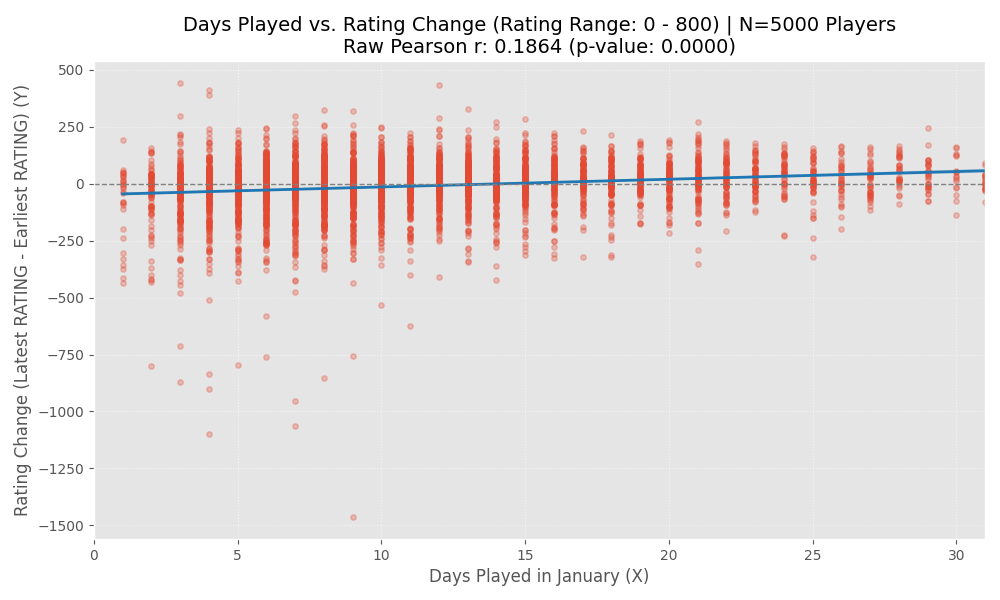
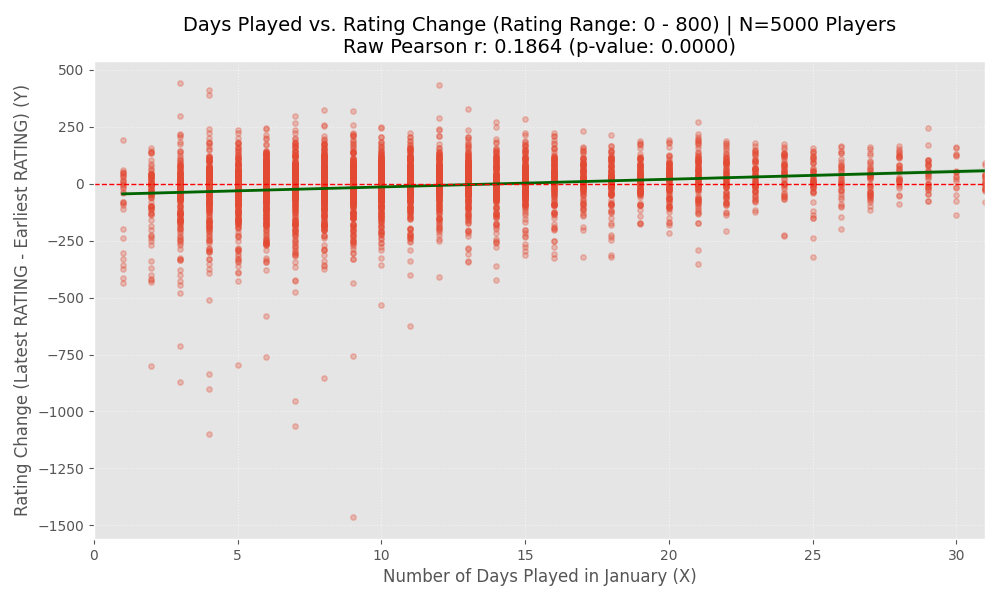
add regression line to bin visualizations, rerun results

Changed region(s): [[0.093, 0.27, 0.992, 0.33], [0.372, 0.93, 0.682, 0.99]]

diff --git a/analyze_and_visualize_correlation_games_vs_rating_change.py b/analyze_and_visualize_correlation_games_vs_rating_change.py
@@ -8,6 +8,8 @@ import io
 import re
 import sys
 
+# TODO: investigate 0 p-values: is that due to rounding, or is something wonky happening?
+
 # --- Configuration ---
 INPUT_CSV_PATH = 'lichess-beginner-data-mining/2024_01_rapid_players_rated_801-1600_results.csv'
 OUTPUT_CSV_PATH = 'lichess-beginner-data-mining/2024_01_rapid_players_rated_801-1600_correlation_results.csv'
@@ -207,7 +209,6 @@ def run_correlation_analysis(df: pd.DataFrame):
 
     plt.xlim(15, 400) 
     
-    # UPDATED: Added P-value to the title
     plt.title(
         f'Games Played vs. Rating Change ({RATING_RANGE_STR}) | N={TOTAL_PLAYERS_N} Players\nRaw Pearson r: {correlation_games:.4f} (p-value: {p_value_games:.4f})', 
         fontsize=14
@@ -237,27 +238,27 @@ def run_correlation_analysis(df: pd.DataFrame):
         y='Rating_Change', 
         data=df, 
         scatter_kws={'alpha': 0.3, 's': 15}, 
-        line_kws={'color': '#1f77b4', 'linewidth': 2} # New color for differentiation
+        line_kws={'color': 'darkgreen', 'linewidth': 2} # Use a different color for differentiation
     )
-
-    plt.xlim(0, 31) # Limit X-axis to the days in the month (1-31)
     
-    # UPDATED: Added P-value to the title
+    # Set x-limits appropriate for Days Played (1 to 31)
+    plt.xlim(0, 31) 
+    
     plt.title(
         f'Days Played vs. Rating Change ({RATING_RANGE_STR}) | N={TOTAL_PLAYERS_N} Players\nRaw Pearson r: {correlation_days:.4f} (p-value: {p_value_days:.4f})', 
         fontsize=14
     )    
-    plt.xlabel('Days Played in January (X)')
+    plt.xlabel('Number of Days Played in January (X)')
     plt.ylabel('Rating Change (Latest RATING - Earliest RATING) (Y)')
-    plt.axhline(0, color='gray', linestyle='--', linewidth=1) 
+    plt.axhline(0, color='red', linestyle='--', linewidth=1) 
     plt.grid(True, linestyle=':', alpha=0.6)
     plt.tight_layout()
     
     try:
-        plt.savefig(OUTPUT_DAYS_PLOT_PATH)
-        print(f"✅ Days visualization saved to: {OUTPUT_DAYS_PLOT_PATH}")
+        plt.savefig(OUTPUT_DAYS_PLOT_PATH) 
+        print(f"✅ Days distribution visualization (Scatter Plot) saved to: {OUTPUT_DAYS_PLOT_PATH}")
     except Exception as e:
-        print(f"Error saving Days plot: {e}")
+        print(f"Error saving Days scatter plot: {e}")
         
     plt.close()
 
@@ -276,11 +277,26 @@ def run_correlation_analysis(df: pd.DataFrame):
         ax=ax1,
     )
     
-    # UPDATED: Added N and P-value to the title
+    # --- Regression Line for Games Bins ---
+    x_indices_games = np.arange(len(grouped_games_analysis))
+    y_values_games = grouped_games_analysis['Average_Rating_Gain']
+    slope_games, intercept_games = np.polyfit(x_indices_games, y_values_games, 1)
+    regression_line_games = slope_games * x_indices_games + intercept_games
+
+    reg_plot_games = ax1.plot(
+        x_indices_games, 
+        regression_line_games, 
+        color='red', 
+        linestyle='-', 
+        linewidth=2, 
+        label=f'Linear Trend (r={grouped_correlation_games:.4f})'
+    )
+    # ---------------------------------------------
+    
     ax1.set_title(
-        f'Rating Change vs. Games Played ({RATING_RANGE_STR}) | N={TOTAL_PLAYERS_N} Players \nGrouped Pearson r: {grouped_correlation_games:.4f} (p-value: {grouped_p_value_games:.4f})', 
+        f'Rating Change vs. Games Played ({RATING_RANGE_STR}) | N={TOTAL_PLAYERS_N} Players\nGrouped Pearson r: {grouped_correlation_games:.4f} (p-value: {grouped_p_value_games:.4f})', 
         fontsize=14, 
-        y=1.05 # Adjusted y for multiline title
+        y=1.05
     )
     
     ax1.set_xlabel('Games Played Group (Volume)')
@@ -330,7 +346,7 @@ def run_correlation_analysis(df: pd.DataFrame):
         )
         
     bar_legend = [plt.Rectangle((0,0),1,1, fc=sns.color_palette('viridis')[0])]
-    ax1.legend(bar_legend + line_plot, ['Rating Change', 'Player Count (N)'], loc='upper center')
+    ax1.legend(bar_legend + line_plot + reg_plot_games, ['Rating Change (Avg)', 'Player Count (N)', 'Linear Trend'], loc='upper center')
     
     fig.tight_layout() 
     
@@ -355,11 +371,26 @@ def run_correlation_analysis(df: pd.DataFrame):
         ax=ax1,
     )
     
-    # UPDATED: Added N and P-value to the title
+    # --- Regression Line for Days Bins ---
+    x_indices_days = np.arange(len(grouped_days_analysis))
+    y_values_days = grouped_days_analysis['Average_Rating_Gain']
+    slope_days, intercept_days = np.polyfit(x_indices_days, y_values_days, 1)
+    regression_line_days = slope_days * x_indices_days + intercept_days
+
+    reg_plot_days = ax1.plot(
+        x_indices_days, 
+        regression_line_days, 
+        color='red', 
+        linestyle='-', 
+        linewidth=2, 
+        label=f'Linear Trend (r={grouped_correlation_days:.4f})'
+    )
+    # ---------------------------------------------
+
     ax1.set_title(
-        f'Rating Change vs. Days Played ({RATING_RANGE_STR}) | N={TOTAL_PLAYERS_N} Players \nGrouped Pearson r: {grouped_correlation_days:.4f} (p-value: {grouped_p_value_days:.4f})', 
+        f'Rating Change vs. Days Played ({RATING_RANGE_STR}) | N={TOTAL_PLAYERS_N} Players\nGrouped Pearson r: {grouped_correlation_days:.4f} (p-value: {grouped_p_value_days:.4f})', 
         fontsize=14, 
-        y=1.05 # Adjusted y for multiline title
+        y=1.05
     )
     
     ax1.set_xlabel('Days Played Group (Volume)')
@@ -409,7 +440,7 @@ def run_correlation_analysis(df: pd.DataFrame):
         )
         
     bar_legend = [plt.Rectangle((0,0),1,1, fc=sns.color_palette('magma')[0])]
-    ax1.legend(bar_legend + line_plot, ['Rating Change', 'Player Count (N)'], loc='upper center')
+    ax1.legend(bar_legend + line_plot + reg_plot_days, ['Rating Change (Avg)', 'Player Count (N)', 'Linear Trend'], loc='upper center')
     
     fig.tight_layout() 
     
